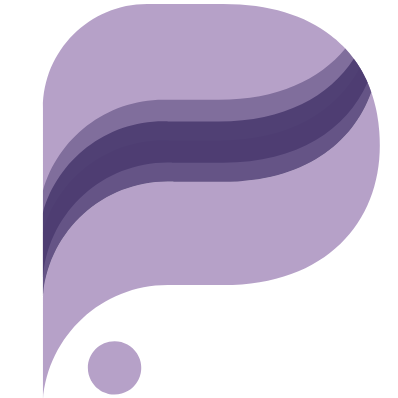
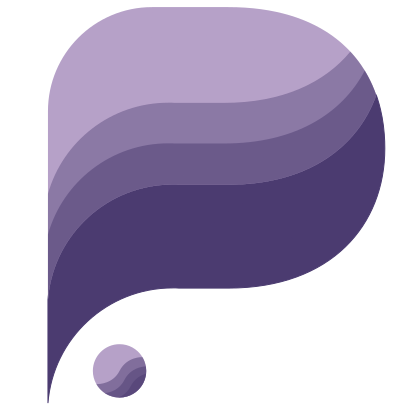
update

diff --git a/src/components/App/Sidebar/ThemeToggle.tsx b/src/components/App/Sidebar/ThemeToggle.tsx
@@ -1,75 +1,87 @@
-import { useState } from "react";
+import { useState, useEffect } from "react";
 
 const ThemeToggle = () => {
-  const [isChecked, setIsChecked] = useState(false);
+  const [isChecked, setIsChecked] = useState(() => {
+    return localStorage.getItem("darkMode") === "true";
+  });
 
-  const handleToggle = () => {
-    setIsChecked(!isChecked);
-  };
+  useEffect(() => {
+    const html = window.document.documentElement;
+    if (isChecked) {
+      html.classList.add("dark");
+      localStorage.setItem("darkMode", "true");
+    } else {
+      html.classList.remove("dark");
+      localStorage.setItem("darkMode", "false");
+    }
+  }, [isChecked]);
 
   return (
-    <label className="relative inline-block w-8 h-8 cursor-pointer">
-      <input
-        type="checkbox"
-        className="sr-only"
-        checked={isChecked}
-        onChange={handleToggle}
-        aria-label="Toggle between light and dark theme"
-      />
-      <svg
-        className={`absolute inset-0 w-full h-full text-gray-400 transition-transform duration-300 ease-in-out ${
-          isChecked ? "rotate-90 text-third" : "rotate-45 text-second"
-        }`}
-        viewBox="0 0 20 20"
-        fill="currentColor"
-        aria-hidden="true"
-      >
-        <mask id="moon-mask">
-          <rect x="0" y="0" width="20" height="20" fill="white" />
+    <div className=" shadow-lg w-10 h-10 flex justify-center items-center rounded-md cursor-pointer transition-all duration-200 active:scale-90">
+      <label className="relative inline-block w-[30px] h-8 cursor-pointer ">
+        <input
+          type="checkbox"
+          className="sr-only"
+          name="checkbox"
+          checked={isChecked}
+          onChange={() => setIsChecked(!isChecked)}
+          aria-label="Toggle between light and dark theme"
+        />
+        <svg
+          className={`absolute inset-0 w-full h-full text-gray-400 transition-transform duration-300 ease-in-out ${
+            isChecked ? "rotate-90 text-first" : "rotate-45 text-second"
+          }`}
+          viewBox="0 0 20 20"
+          fill="currentColor"
+          aria-hidden="true"
+        >
+          <mask id="moon-mask">
+            <rect x="0" y="0" width="20" height="20" fill="white" />
+            <circle
+              cx="11"
+              cy="3"
+              r="7"
+              fill="black"
+              className={`transition-transform duration-500 ease-in-out ${
+                isChecked
+                  ? "translate-x-4 -translate-y-1"
+                  : "translate-x-0 translate-y-0"
+              }`}
+            />
+          </mask>
           <circle
-            cx="11"
-            cy="3"
-            r="7"
-            fill="black"
-            className={`transition-transform duration-500 ease-in-out ${
-              isChecked
-                ? "translate-x-4 -translate-y-1"
-                : "translate-x-0 translate-y-0"
+            cx="10"
+            cy="10"
+            r="5"
+            mask="url(#moon-mask)"
+            className={`transition-transform duration-300${
+              isChecked ? "scale-55" : "scale-100"
             }`}
           />
-        </mask>
-        <circle
-          cx="10"
-          cy="10"
-          r="5"
-          mask="url(#moon-mask)"
-          className={`transition-transform duration-300${
-            isChecked ? "scale-55" : "scale-100"
-          }`}
-        />
-        <g>
-          {[
-            { cx: 18, cy: 10 },
-            { cx: 14, cy: 16.928 },
-            { cx: 6, cy: 16.928 },
-            { cx: 2, cy: 10 },
-            { cx: 6, cy: 3.1718 },
-            { cx: 14, cy: 3.1718 },
-          ].map((circle, index) => (
-            <circle
-              key={index}
-              cx={circle.cx}
-              cy={circle.cy}
-              r="1"
-              className={`transform origin-center transition-transform duration-300 ${
-                isChecked ? "scale-100" : "scale-0"
-              }`}
-              style={{ transitionDelay: `${index * 50}ms` }}
-            />
-          ))}
-        </g>
-      </svg>
-    </label>
+          <g>
+            {[
+              { cx: 18, cy: 10 },
+              { cx: 14, cy: 16.928 },
+              { cx: 6, cy: 16.928 },
+              { cx: 2, cy: 10 },
+              { cx: 6, cy: 3.1718 },
+              { cx: 14, cy: 3.1718 },
+            ].map((circle, index) => (
+              <circle
+                key={index}
+                cx={circle.cx}
+                cy={circle.cy}
+                r="1"
+                className={`transform origin-center transition-transform duration-300 ${
+                  isChecked ? "scale-100" : "scale-0"
+                }`}
+                style={{ transitionDelay: `${index * 50}ms` }}
+              />
+            ))}
+          </g>
+        </svg>
+      </label>
+    </div>
   );
 };
 

diff --git a/src/components/App/Sidebar/Sidebar.tsx b/src/components/App/Sidebar/Sidebar.tsx
@@ -1,22 +1,23 @@
 import ListItem from "./ListItem";
 import { SIDEBAR_ICON_SIZE } from "../../../lib/constants";
 import ThemeToggle from "./ThemeToggle";
-
+import Avatar from "../Avatar";
 import { TbLogout2 } from "react-icons/tb";
-import { FaPhone, FaUserFriends } from "react-icons/fa";
+import { FaUserFriends } from "react-icons/fa";
 import { HiMiniUserGroup } from "react-icons/hi2";
 import { IoIosVideocam } from "react-icons/io";
 import { IoSettings } from "react-icons/io5";
+import { MdSettingsPhone } from "react-icons/md";
 
 const Sidebar = () => {
   return (
-    <div className="h-screen flex justify-start items-center">
-      <div className="flex w-16 flex-col items-center space-y-5 py-6">
+    <div className=" flex justify-start items-center ">
+      <div className="min-h-screen flex w-16 flex-col justify-around items-center space-y-5 py-6">
         <div className="flex items-center justify-center rounded-md bg-white p-4">
-          <img src="./icon.png" alt="" className="mt-1" />
+          <img src="./icon.png" alt="logo" className="mt-1" />
         </div>
 
-        <div className="space-y-36 rounded-md bg-white">
+        <div className="space-y-16 rounded-md bg-white">
           <ul className="gap-3 flex flex-col items-center justify-center">
             <ListItem>
               <FaUserFriends size={SIDEBAR_ICON_SIZE} />
@@ -25,7 +26,7 @@ const Sidebar = () => {
               <HiMiniUserGroup size={SIDEBAR_ICON_SIZE} />
             </ListItem>
             <ListItem>
-              <FaPhone size={SIDEBAR_ICON_SIZE} />
+              <MdSettingsPhone size={SIDEBAR_ICON_SIZE} />
             </ListItem>
             <ListItem>
               <IoIosVideocam size={SIDEBAR_ICON_SIZE} />
@@ -38,10 +39,13 @@ const Sidebar = () => {
             </li>
           </ul>
           <div>
-            <ul className="gap-4 flex flex-col items-center justify-center mb-5">
-              <li className="cursor-pointer">
-                <TbLogout2 size={SIDEBAR_ICON_SIZE} />
+            <ul className=" flex flex-col items-center justify-center mb-5">
+              <li>
+                <Avatar src="./girl.jpeg" alt="User avatar" size="sm" />
               </li>
+              <ListItem>
+                <TbLogout2 size={SIDEBAR_ICON_SIZE} />
+              </ListItem>
             </ul>
           </div>
         </div>

diff --git a/src/components/App/Avatar.tsx b/src/components/App/Avatar.tsx
@@ -1,0 +1,17 @@
+import { IAvatar } from "../../lib/interfaces";
+import { AVATAR_SIZES } from "../../lib/constants";
+
+const Avatar = ({ src, alt, size = "md" }: IAvatar) => {
+  return (
+    <div className="relative">
+      <div
+        className={`${AVATAR_SIZES[size]} rounded-full overflow-hidden border-2 border-gray-200 `}
+      >
+        <img className="w-full h-full object-cover" src={src} alt={alt} />
+      </div>
+      <span className="bottom-0 left-7 absolute  w-3.5 h-3.5 bg-green-400 border-2 border-white dark:border-gray-800 rounded-full"></span>
+    </div>
+  );
+};
+
+export default Avatar;

diff --git a/src/lib/constants.ts b/src/lib/constants.ts
@@ -1,4 +1,11 @@
+import { IAvatarSize } from "./interfaces";
+
 export const FULL_NAME_MIN_CHARS: number = 6;
 export const USERNAME_MIN_CHARS: number = 3;
 export const PASSWORD_MIN_CHARS: number = 6;
-export const SIDEBAR_ICON_SIZE: string = "20";
+export const SIDEBAR_ICON_SIZE: string = "22";
+export const AVATAR_SIZES: IAvatarSize = {
+  sm: "w-10 h-10",
+  md: "w-12 h-12",
+  lg: "w-14 h-14",
+};

diff --git a/src/styles/index.css b/src/styles/index.css
@@ -20,3 +20,21 @@
     --color-first: #c8b1e4;
   }
 }
+
+body::-webkit-scrollbar {
+  width: 12px;
+}
+
+body::-webkit-scrollbar-track {
+  background: #f1f1f1;
+}
+
+body::-webkit-scrollbar-thumb {
+  background-color: #888;
+  border-radius: 10px;
+  border: 3px solid #f1f1f1;
+}
+
+body::-webkit-scrollbar-thumb:hover {
+  background-color: #555;
+}

diff --git a/index.html b/index.html
@@ -2,7 +2,7 @@
 <html lang="en">
   <head>
     <meta charset="UTF-8" />
-    <link rel="icon" type="image/svg+xml" href="/icon.png" />
+    <link rel="icon" type="image/svg+xml" href="/icon-1.png" />
     <meta name="viewport" content="width=device-width, initial-scale=1.0" />
     <title>Pipeline</title>
   </head>

diff --git a/src/pages/app/Layout.tsx b/src/pages/app/Layout.tsx
@@ -8,7 +8,7 @@ const AppLayout = () => {
   const { isInternalServerError, setIsInternalServerError } =
     useInternalServerError();
   return (
-    <div className="h-screen bg-bg">
+    <div className="bg-bg flex flex-row ">
       <Sidebar />
       <Modal
         open={isInternalServerError}

diff --git a/src/lib/interfaces.ts b/src/lib/interfaces.ts
@@ -30,3 +30,13 @@ export interface IApiErrorResponse {
   status: "fail" | "success" | "error";
   errors: IApiFeildError[];
 }
+
+export interface IAvatar {
+  src: string;
+  alt: string;
+  size: string;
+}
+
+export interface IAvatarSize {
+  [key: string]: string;
+}
